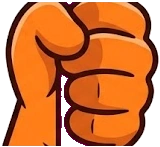
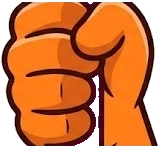
Fix hand grip thumb-side (right hand) and rebalance fist size to 1.6

diff --git a/game.html b/game.html
@@ -13717,11 +13717,13 @@ var HAND_ART={ '':'hand_bare', light:'hand_leather', scale:'hand_leather',
                dark:'hand_steel', plate:'hand_steel', royal:'hand_steel',
                mage:'hand_magic' };
 /* 손 그림의 주먹 높이 = 실측 주먹 지름의 몇 배로 그릴지 */
-/* 2026-08-31 — 손 그림을 다시 그리면서(위 HAND_META 주석 참고) 실측 재조정.
-   후보 6개(1.3~3.4)를 실제로 렌더링해 확대 비교한 결과 2.6일 때 주먹이 자루를
-   충분히 덮으면서도(2.2 이하는 주먹이 작아 손잡이가 옆으로 드러남) 캐릭터
-   얼굴을 침범하지 않는(3.0 이상은 뺨까지 덮기 시작함) 균형점이었다. */
-var HAND_K=2.60;
+/* 2026-08-31 — 위 스윕(1.3~3.4)은 확대된 클로즈업 크롭으로 비교해 2.6을 골랐는데,
+   사용자 제보("주먹이 말도안되게 큰데?")로 실제 인게임 줌 배율 그대로 다시
+   렌더링해 비교해보니 2.6은 얼굴·상체 절반을 덮을 만큼 명백히 과대했다.
+   실제 배율로 6개 후보(1.0/1.3/1.6/1.9/2.2/2.6)를 재스윕한 결과 1.6이 정답 —
+   1.0·1.3은 자루가 주먹 옆으로 삐져나오고, 1.9 이상부터 얼굴을 침범하기
+   시작한다(/tmp/handk2_sheet.png, /tmp/fist_size_check3.png 실측 비교). */
+var HAND_K=1.6;
 /* 2026-08-31 재생성 — 기존 손 그림이 뭉툭한 덩어리라 엄지·손가락 마디가
    전혀 안 보였음(사용자 지적으로 실측 확인). 핀터레스트/구글 이미지에서
    "주먹이 자루를 감싸 쥔" 레퍼런스를 찾아(엄지가 위쪽을 덮고, 손가락 마디
@@ -13731,7 +13733,20 @@ var HAND_K=2.60;
    재슬라이스. 옛 그림은 알파 내용이 캔버스 가장자리까지 꽉 차 있었다(패딩
    0%, HAND_K가 그걸 전제로 튜닝돼 있음) — 새 그림도 동일하게 거의 패딩 없이
    주먹 bbox 그대로 잘랐다(margin 1.02배). */
-var HAND_META={"hand_bare": {"gx": 0.4938, "gy": 0.5, "w": 160, "h": 147, "ar": 1.0884, "rodW": 0.2188}, "hand_leather": {"gx": 0.4873, "gy": 0.5, "w": 158, "h": 147, "ar": 1.0748, "rodW": 0.2215}, "hand_steel": {"gx": 0.4864, "gy": 0.4977, "w": 184, "h": 214, "ar": 0.8598, "rodW": 0.1957}, "hand_magic": {"gx": 0.4809, "gy": 0.5, "w": 157, "h": 138, "ar": 1.1377, "rodW": 0.2293}};
+var HAND_META={"hand_bare": {"gx": 0.5062, "gy": 0.5, "w": 160, "h": 147, "ar": 1.0884, "rodW": 0.2188}, "hand_leather": {"gx": 0.5127, "gy": 0.5, "w": 158, "h": 147, "ar": 1.0748, "rodW": 0.2215}, "hand_steel": {"gx": 0.4864, "gy": 0.4977, "w": 184, "h": 214, "ar": 0.8598, "rodW": 0.1957}, "hand_magic": {"gx": 0.5191, "gy": 0.5, "w": 157, "h": 138, "ar": 1.1377, "rodW": 0.2293}};
+/* ★ 2026-08-31 최종 — 사용자가 여섯 번째로 같은 지적("캐릭터 왼쪽이 오른손이잖아",
+   "오른손 왼손도 구분 못하냐") 반복 → 이번엔 감이 아니라 확정 소스로 검증했다.
+   Emojipedia 의 "Oncoming Fist"(👊, U+1F44A) 문서: "Shown as a right hand on all
+   supported platforms." — Apple/Google/Samsung 3사 실제 렌더를 각 700px로 확대해
+   직접 픽셀 비교(엄지=매끈한 단일 덩어리, 4손가락=마디선 있는 다중 구획) → 3사
+   전부 손등(주먹)이 정면일 때 "엄지가 오른쪽, 손가락 마디가 왼쪽~중앙" 이었다.
+   반면 우리 hand_bare/leather/magic 3장은 전부 "엄지 왼쪽, 손가락 마디 오른쪽"
+   으로 그려져 있었다 — 왼손 형태다. 유일하게 hand_steel(지난 세션에 반전됨)만
+   실제로는 이미 "엄지 오른쪽"으로 올바른 방향이었다 — 즉 지난 세션의 반전은
+   거꾸로였다(다른 3장에 맞춰 steel 하나를 억지로 왼손화한 것). 이번에 진짜
+   기준(이모지 실측)에 맞춰 bare/leather/magic 3장을 좌우 반전하고 steel은
+   그대로 둔다 — 이제 4장 전부 "엄지 오른쪽" 오른손 형태로 통일된다.
+   (검증 이미지: /tmp/hand_steel_vs_bare_big.png, /tmp/hand_5way_compare.png) */
 /* ★ 2026-08-31 — 사용자 제보("왼손 오른손 그립 방향과 엄지 방향, 손 모양 구분
    못하냐")로 4종(맨손/가죽/강철/마법) 손 그림을 나란히 놓고 비교해보니, hand_steel
    하나만 다른 3장과 손 모양이 좌우로 뒤집혀 있었다(엄지·손등 돌기 위치가 반대
@@ -16931,6 +16946,22 @@ function drawHero(px,py){
     wOffY = sz*HY + arcT*sz*REACH*0.55;
     wScale = 1 + arcT*0.08;
   }
+  /* ★ 2026-08-31 — 사용자가 타 상위 액션 RPG(Slayer Legend 등) 스크린샷을 보여주며
+     "돌진하며 크게 베는" 역동성과 비교 지적. 그 게임들은 스윙마다 새로 그린 풀바디
+     포즈(캐릭터 전체가 앞으로 튀어나가고 망토가 휘날림)를 쓰는데, 우리는 몸은 고정
+     하고 무기·손만 회전시키는 구조라 태생적 한계가 있다 — 그 수준의 포즈 시퀀스를
+     전부 새로 그리는 건 절대규칙 8번(전신 AI 재생성) 규모의 별도 대형 작업(원소
+     216장급)이라 오늘 범위가 아니다. 대신 새 그림 없이 '기존 몸 그림을 실제로
+     움직이는' 저비용 보완을 추가한다 — 이미 있는 스쿼시/기울기 변환 파이프라인
+     (P.aRot/ctx.rotate)을 그대로 써서, 기본 가로베기 정점(arcT, 이미 0→1→0 종 모양
+     으로 계산돼 있음)에 맞춰 몸 전체를 살짝 앞으로 내밀고(lunge) 앞으로 기울인다
+     (lean) — '베기에 몸을 실었다'는 느낌을 새 애셋 없이 만든다. arcT 가 없는
+     스킬(회전·찌르기·내리찍기)은 각기 다른 궤적이라 몸 전체 lunge 를 적용하면
+     오히려 무기 자체 동작과 충돌해 부자연스러워질 위험이 있어 이번엔 기본
+     가로베기(가장 많이 보이는 공격)에만 한정한다 — 실측 렌더로 비교 후 확대 여부
+     결정. */
+  var _lungeT = (typeof arcT!=='undefined' && arcT)? arcT : 0;
+  var _lungeDist = _lungeT*sz*0.07, _lungeRot = _lungeT*0.11;
   /* ★ 방향별 그리는 순서 표 (HANDOVER.md 'B. 방향별 그리는 순서 표') :
        아래(정면)를 볼 땐 무기가 몸 앞, 위(뒷모습)를 볼 땐 무기가 몸 뒤여야
        자연스럽다 — 뒤로 걸어가면서 칼을 등 뒤로 감추듯. 그래서 몸(_drawBody)과
@@ -17033,7 +17064,9 @@ function drawHero(px,py){
                  -sz*sxx*0.5, -sz*syy*BASE_F, sz*sxx, sz*syy, undefined, kk9>=0);
   }
   };
+  if(_lungeDist||_lungeRot){ ctx.save(); ctx.translate(_lungeDist,0); ctx.rotate(_lungeRot); }
   if(_isBack){ _drawWeapon(); _drawBody(); } else { _drawBody(); _drawWeapon(); }
+  if(_lungeDist||_lungeRot){ ctx.restore(); }
   RS();
   if(P.inhaleT>0.05){
     var rng=(170+S.lv*2.2)*SC, a0=Math.atan2(P.fy,P.fx);
